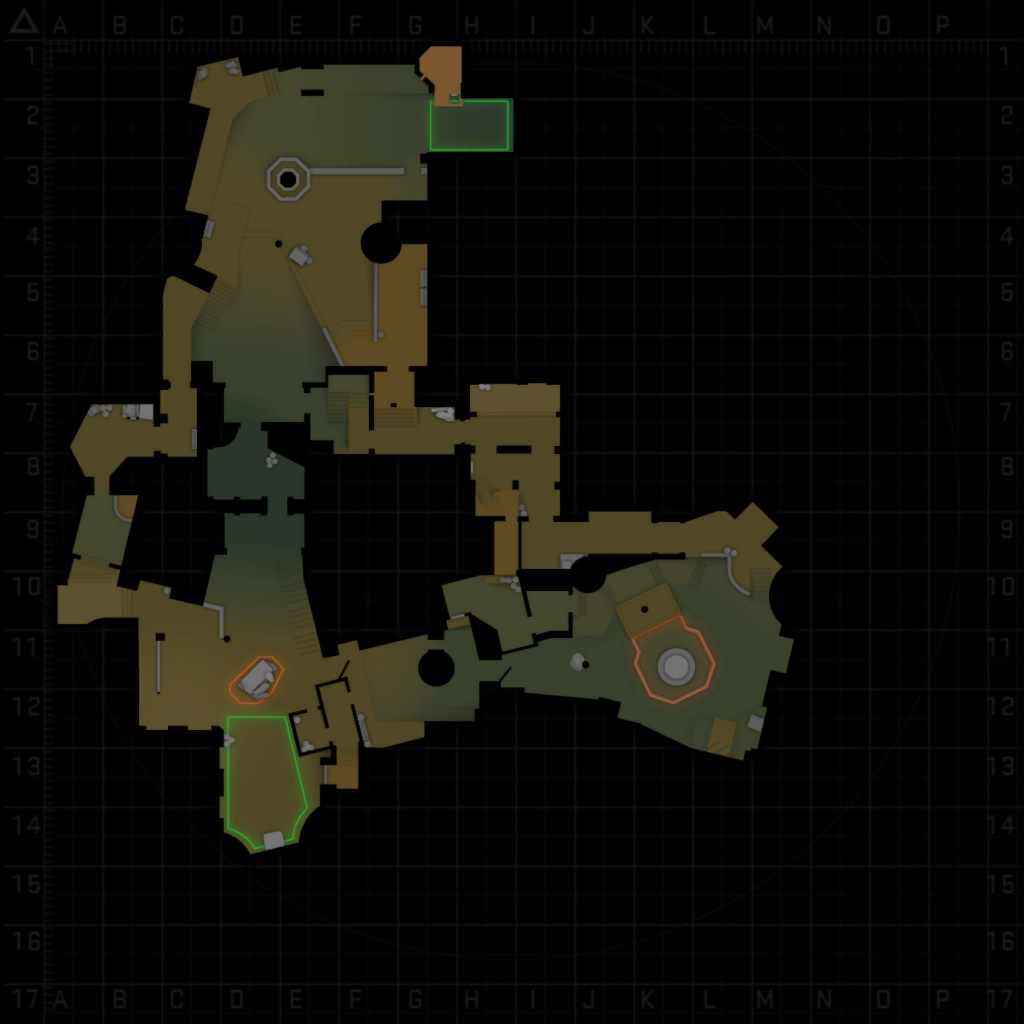
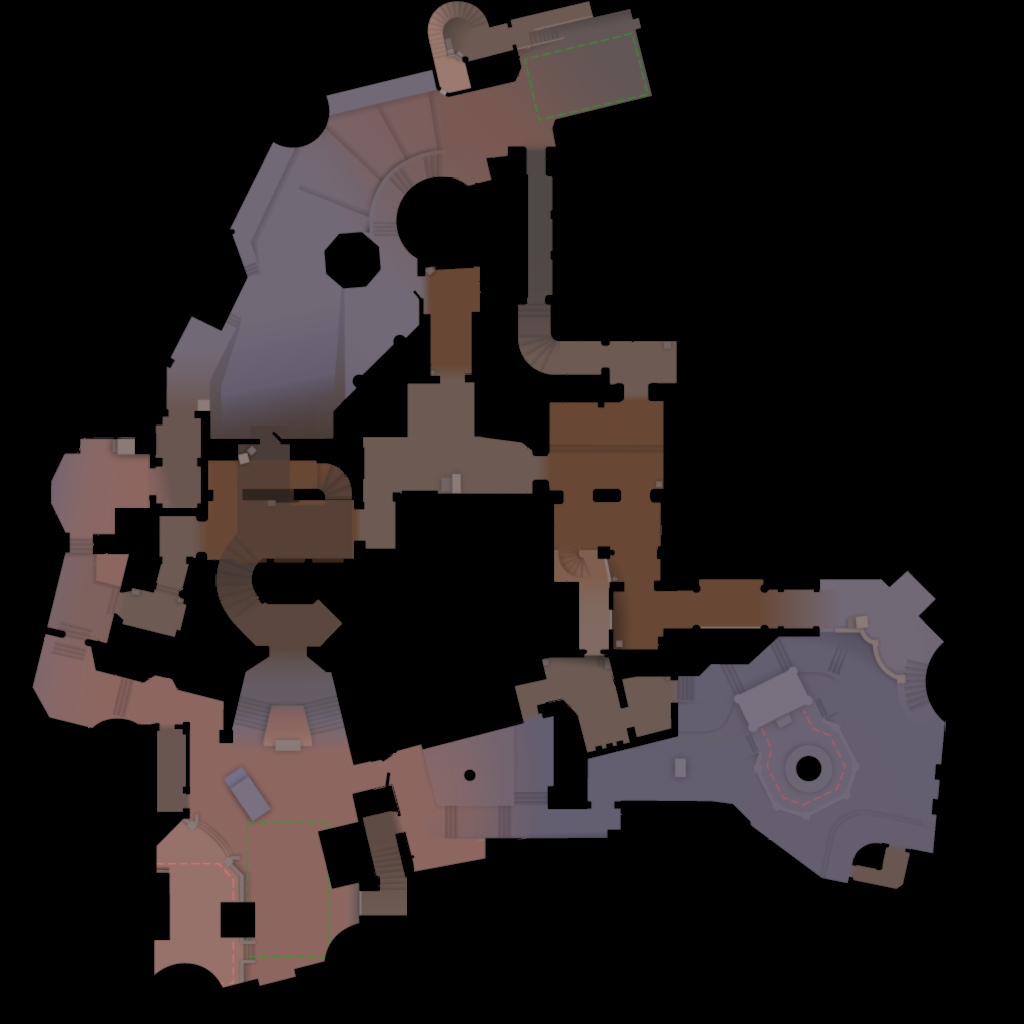
feat: support new de_cbble
Update the CS2 de_cbble radar, thumbnail and coordinates (position and
scale), and add a migration to update the coordinates in existing
databases.

diff --git a/src/node/database/migrations/migrate-database.ts b/src/node/database/migrations/migrate-database.ts
@@ -12,7 +12,7 @@ import { DatabaseSchemaVersionMismatch } from '../database-schema-version-mismat
 // It's used to migrate database schema at app startup.
 // If you need to change the database schema or change data currently in the DB, this variable has to be incremented
 // and the corresponding migration must be added to the getAllMigrations function!
-const CURRENT_SCHEMA_VERSION = 15;
+const CURRENT_SCHEMA_VERSION = 16;
 
 function getMigrationsForUpgrade(migrations: Migration[], currentSchemaVersion: number) {
   return migrations.filter((migration) => {

diff --git a/src/node/database/migrations/v16.ts b/src/node/database/migrations/v16.ts
@@ -1,0 +1,20 @@
+import type { Migration } from './migration';
+import { Game } from 'csdm/common/types/counter-strike';
+
+const v16: Migration = {
+  schemaVersion: 16,
+  run: async (transaction) => {
+    await transaction
+      .updateTable('maps')
+      .set({
+        position_x: -3615,
+        position_y: 2712,
+        scale: 4.724792,
+      })
+      .where('name', '=', 'de_cbble')
+      .where('game', '=', Game.CS2)
+      .execute();
+  },
+};
+
+export default v16;

diff --git a/src/node/database/migrations/get-all-migrations.ts b/src/node/database/migrations/get-all-migrations.ts
@@ -66,6 +66,7 @@ export async function getAllMigrations(): Promise<Migration[]> {
     import('./v13'),
     import('./v14'),
     import('./v15'),
+    import('./v16'),
   ]);
 
   const migrations = modules.map((module) => module.default);
